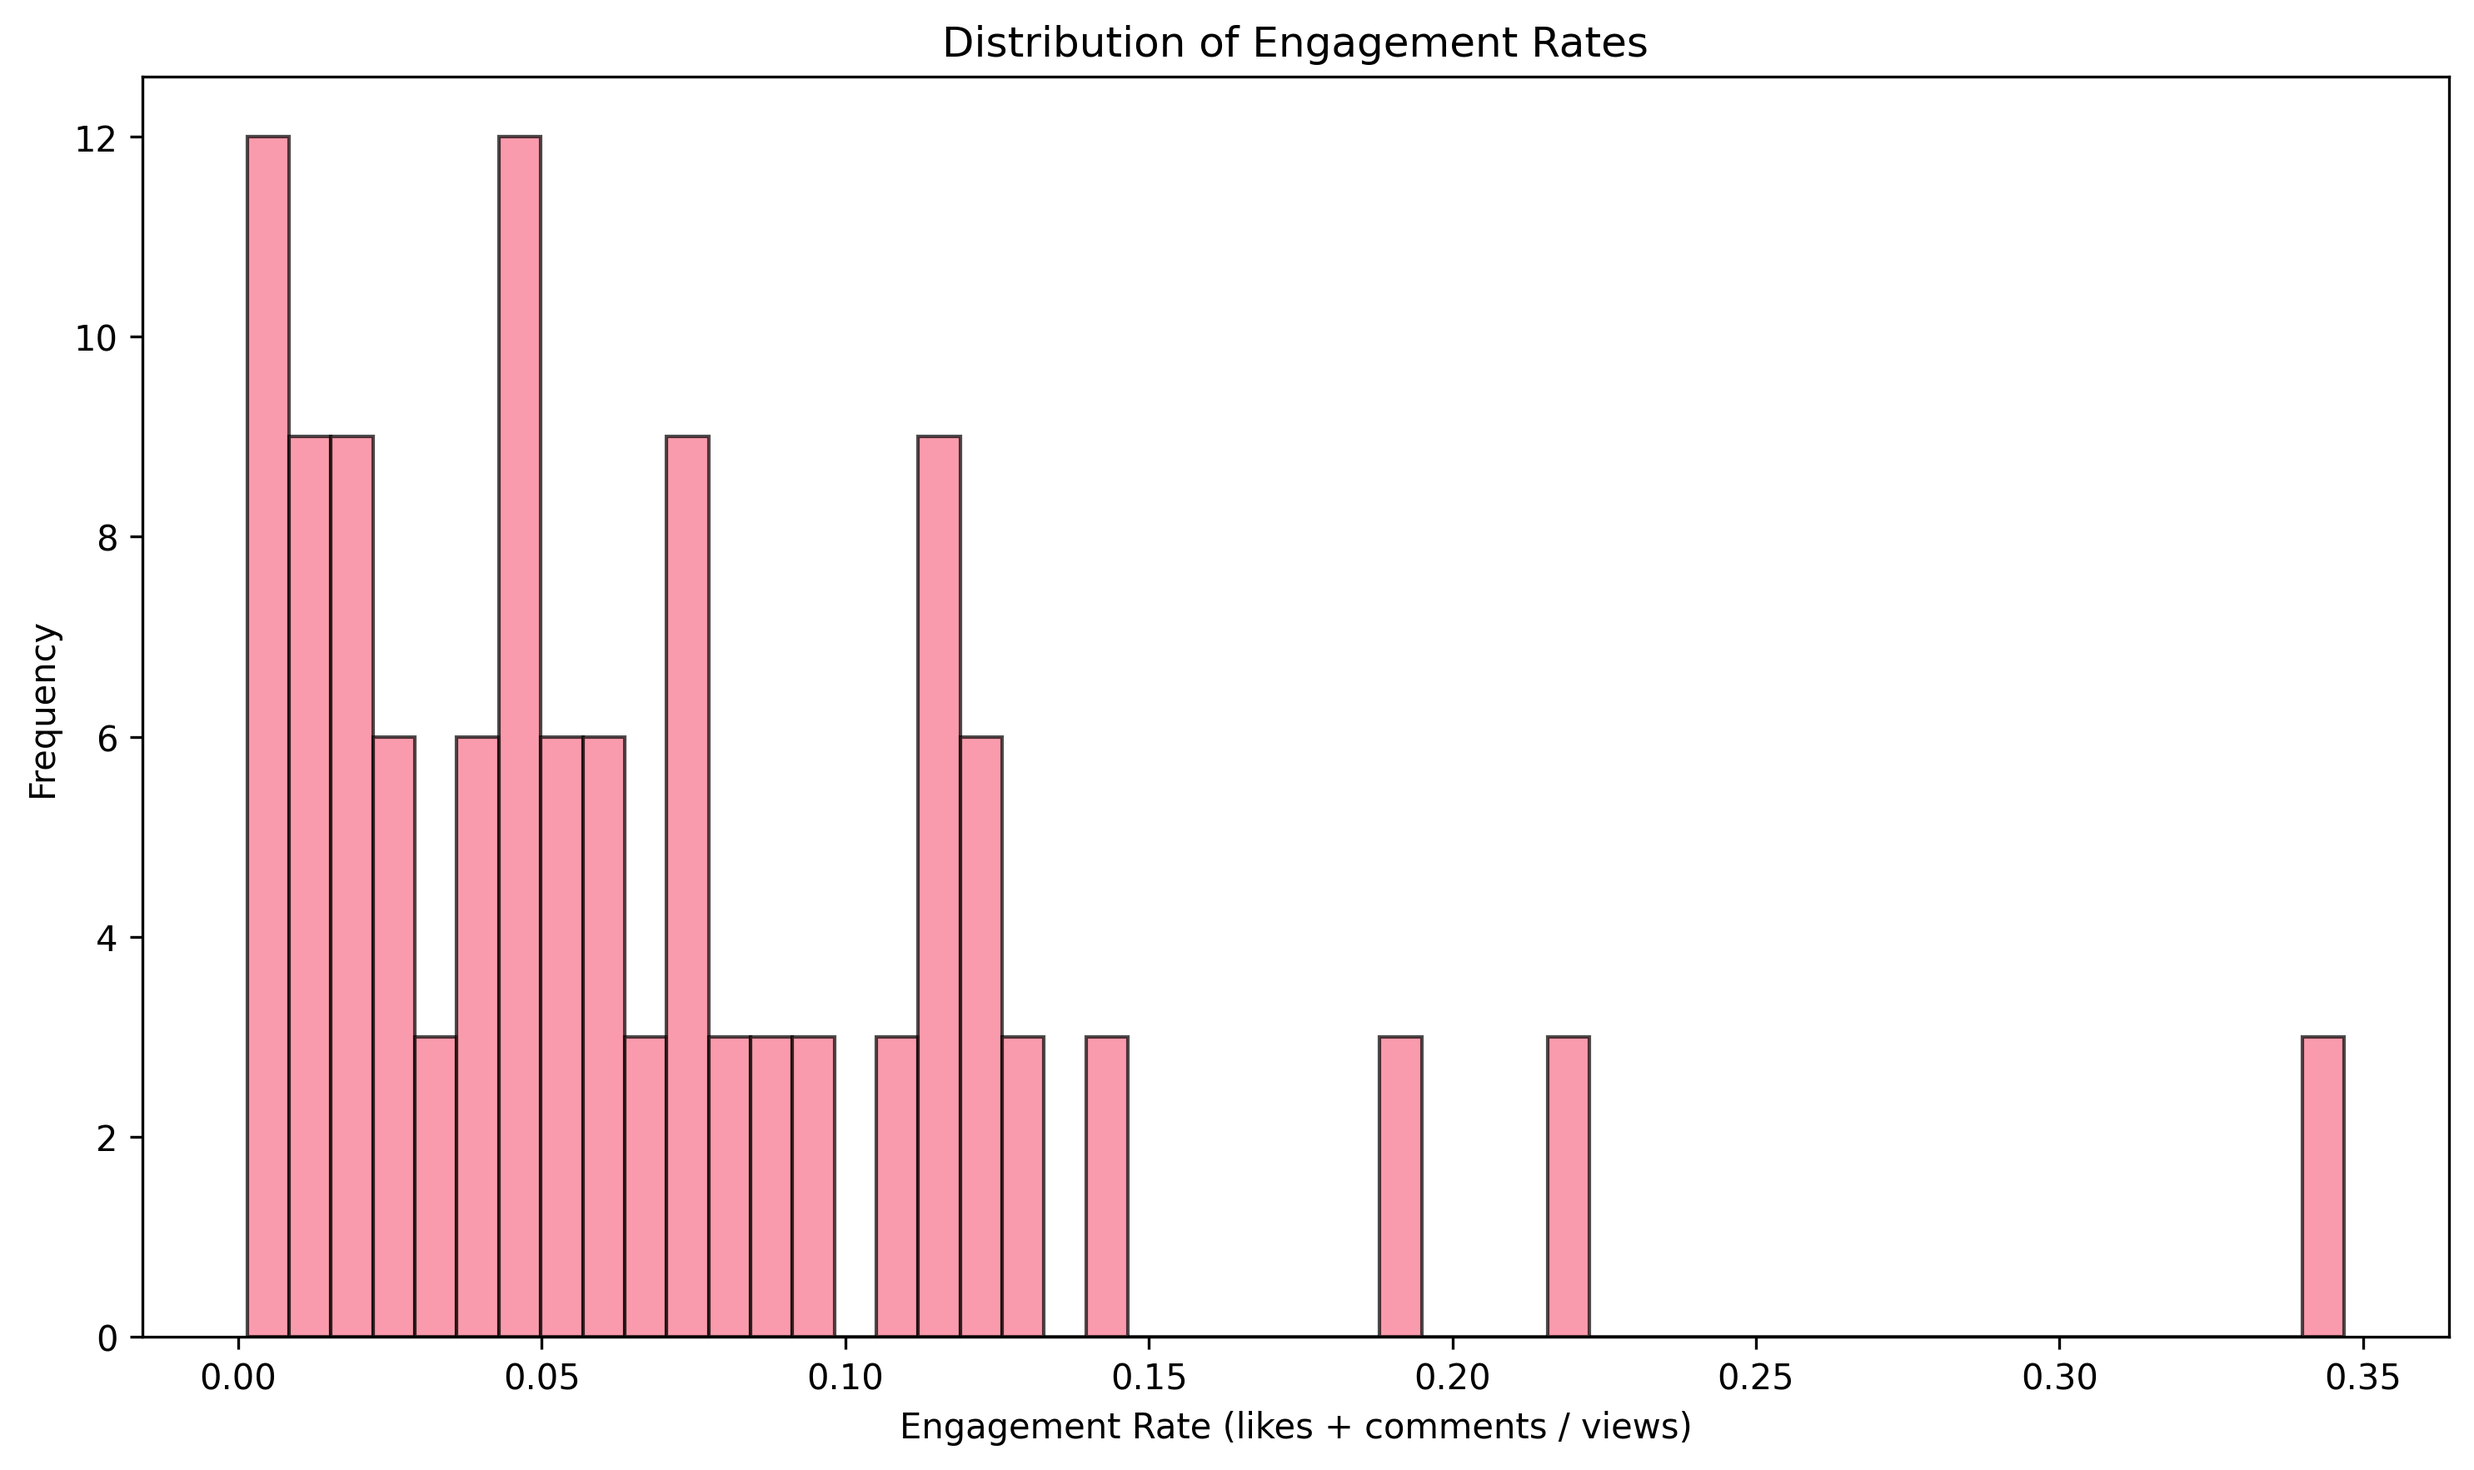
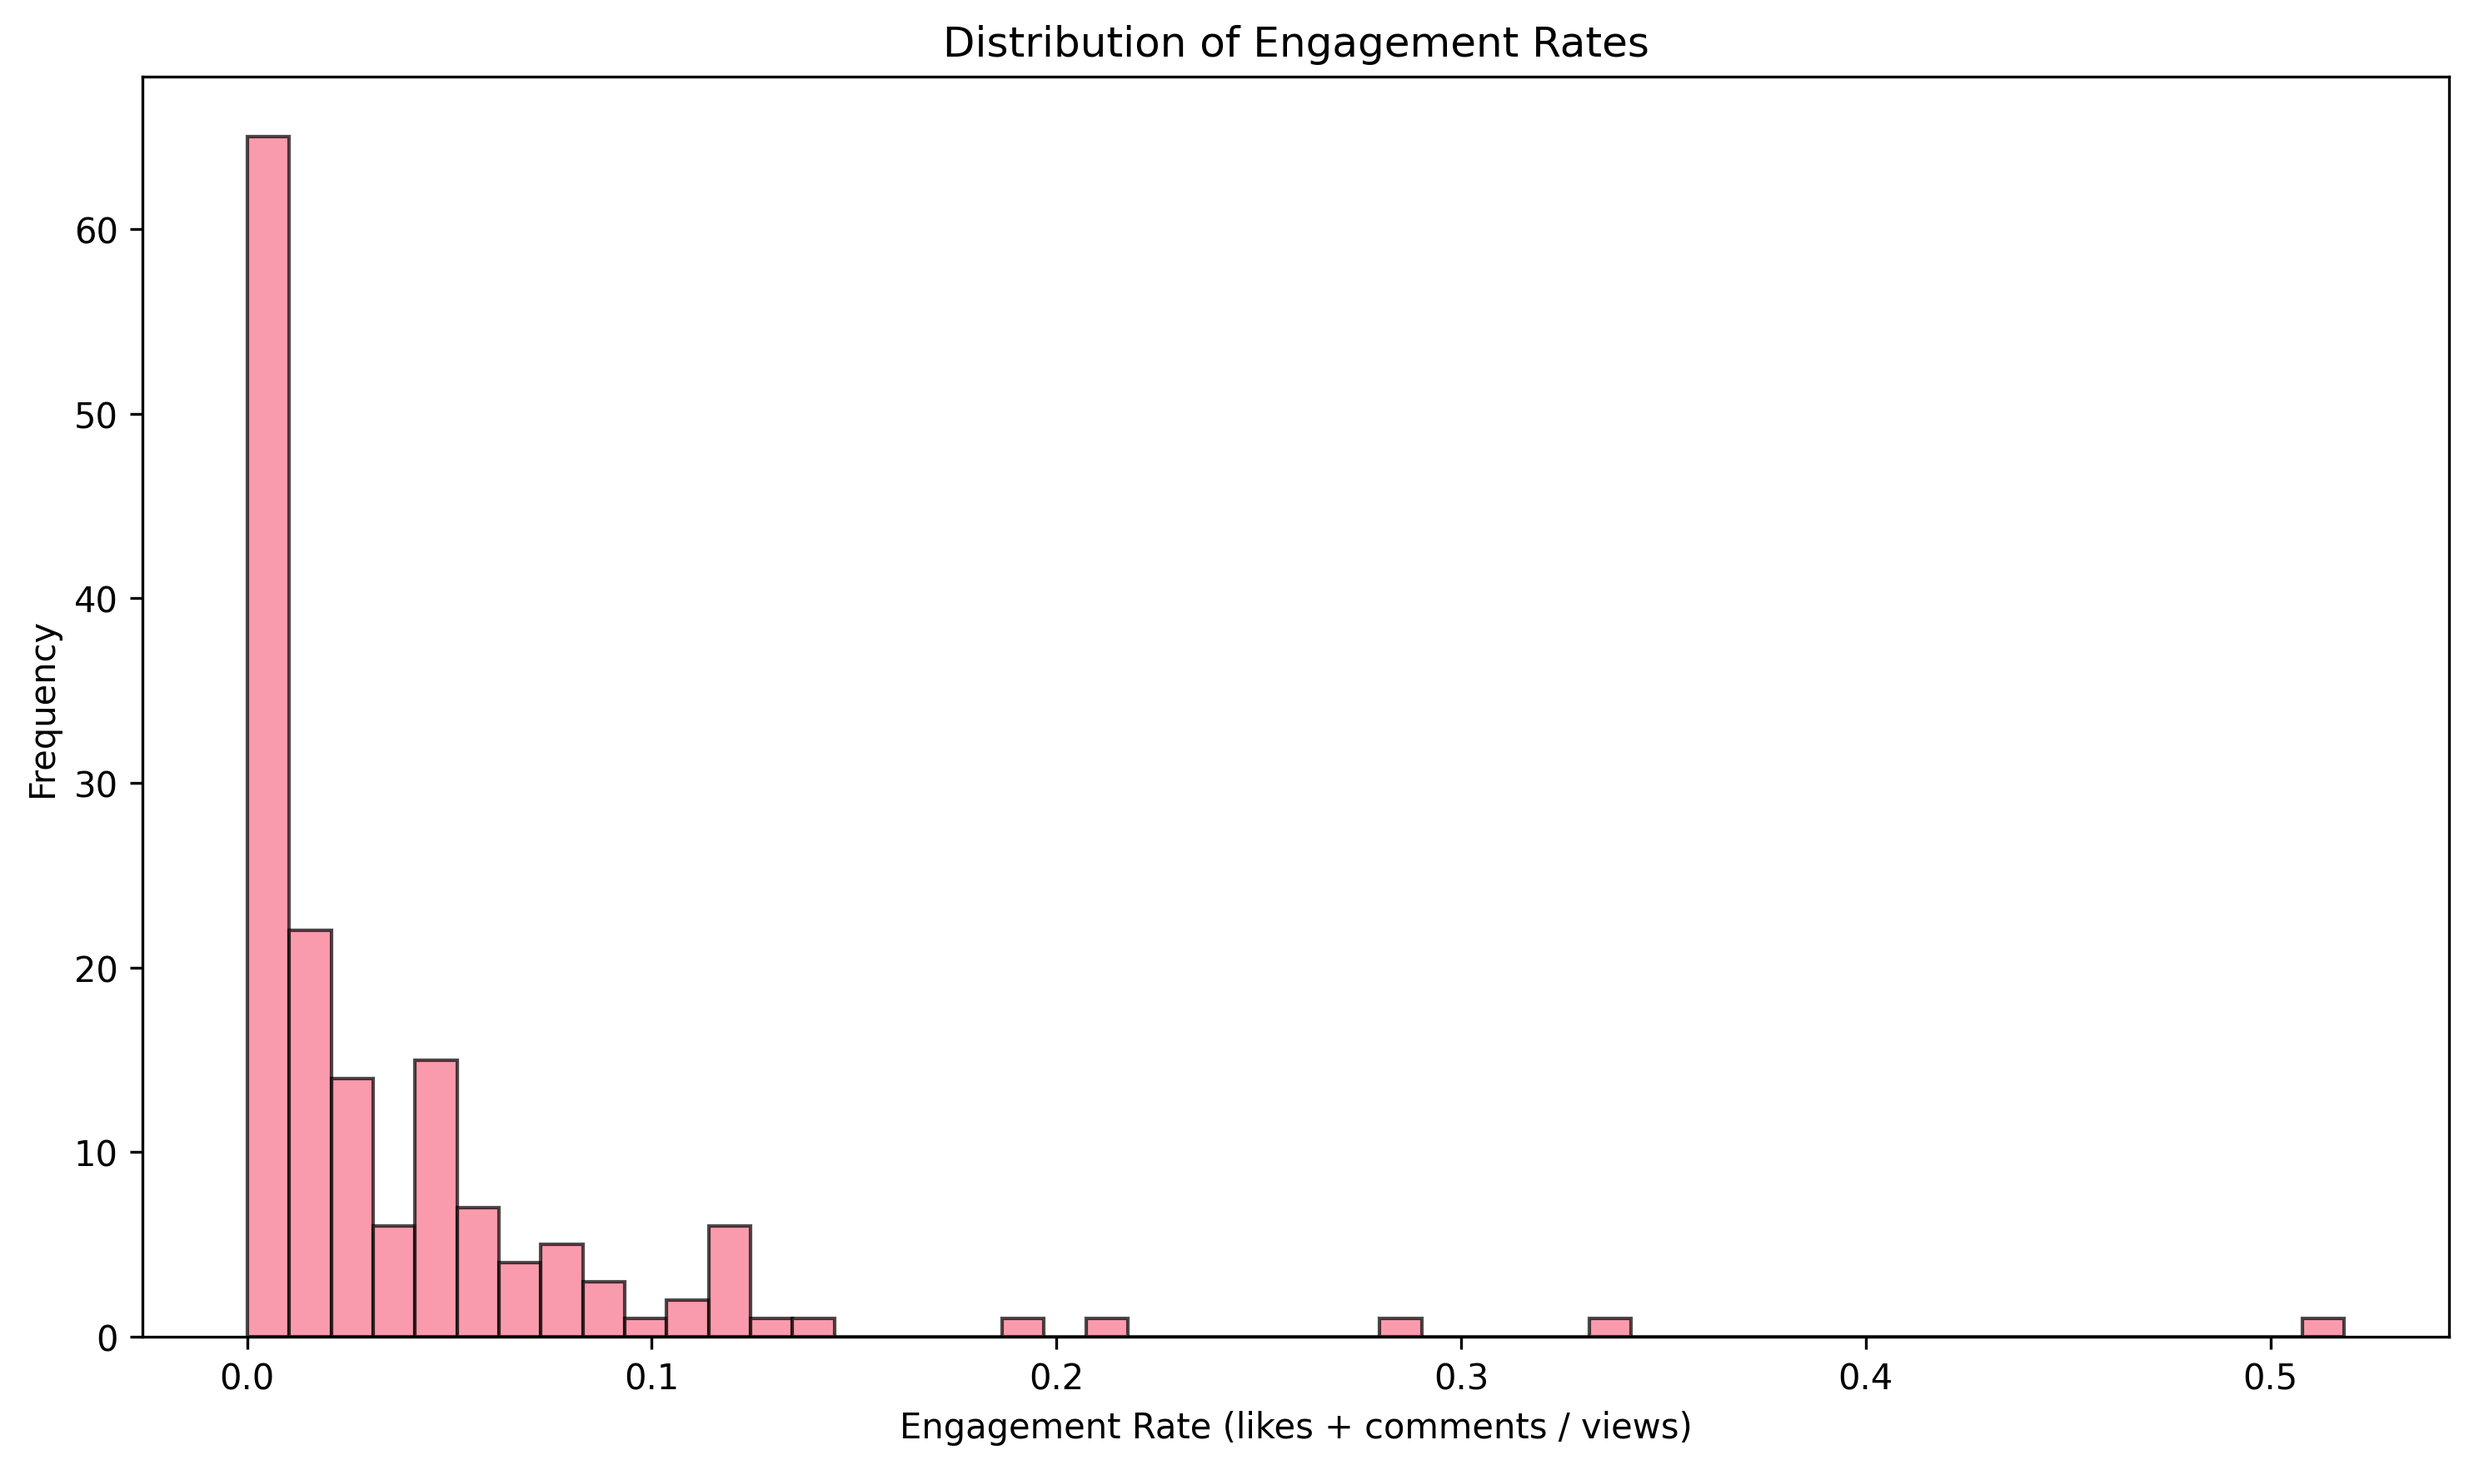
Expand dataset: Added 113 movie-related videos across 5 categories (trailers, reviews, cinema, Hollywood, scenes) - Total 168 videos with comprehensive categorization

diff --git a/scripts/extract_youtube_data.py b/scripts/extract_youtube_data.py
@@ -27,33 +27,80 @@ def extract_youtube_data():
         if not YOUTUBE_API_KEY or YOUTUBE_API_KEY == "YOUR_YOUTUBE_API_KEY_HERE":
             raise ValueError("YouTube API key not configured. Please update config.py")
 
-        url = f"https://www.googleapis.com/youtube/v3/videos?part=snippet,statistics&chart={CHART_TYPE}&regionCode={REGION_CODE}&maxResults={MAX_RESULTS}&key={YOUTUBE_API_KEY}"
-
-        logging.info(f"Making API request to: {url}")
-        response = requests.get(url)
-
-        if response.status_code != 200:
-            raise Exception(f"API request failed with status code {response.status_code}: {response.text}")
-
-        data = response.json()
-
-        if "error" in data:
-            raise Exception(f"YouTube API error: {data['error']['message']}")
-
         videos = []
 
-        for item in data.get("items", []):
-            video_data = {
-                "video_id": item["id"],
-                "title": item["snippet"]["title"],
-                "channel": item["snippet"]["channelTitle"],
-                "published_at": item["snippet"]["publishedAt"],
-                "views": int(item["statistics"].get("viewCount", 0)),
-                "likes": int(item["statistics"].get("likeCount", 0)),
-                "comments": int(item["statistics"].get("commentCount", 0)),
-                "extracted_at": datetime.now().isoformat()
-            }
-            videos.append(video_data)
+        # Strategy 1: Get trending videos (up to 50)
+        logging.info("Fetching trending videos...")
+        trending_url = f"https://www.googleapis.com/youtube/v3/videos?part=snippet,statistics&chart={CHART_TYPE}&regionCode={REGION_CODE}&maxResults=50&key={YOUTUBE_API_KEY}"
+
+        response = requests.get(trending_url)
+        if response.status_code == 200:
+            data = response.json()
+            if "items" in data:
+                for item in data["items"]:
+                    video_data = {
+                        "video_id": item["id"],
+                        "title": item["snippet"]["title"],
+                        "channel": item["snippet"]["channelTitle"],
+                        "published_at": item["snippet"]["publishedAt"],
+                        "views": int(item["statistics"].get("viewCount", 0)),
+                        "likes": int(item["statistics"].get("likeCount", 0)),
+                        "comments": int(item["statistics"].get("commentCount", 0)),
+                        "category": "trending",
+                        "extracted_at": datetime.now().isoformat()
+                    }
+                    videos.append(video_data)
+                logging.info(f"Fetched {len(data['items'])} trending videos")
+
+        # Strategy 2: Search for movie-related content
+        movie_queries = ["movie trailer", "film review", "cinema", "hollywood", "movie scene"]
+        videos_per_query = 20
+
+        for query in movie_queries:
+            logging.info(f"Searching for: {query}")
+            search_url = f"https://www.googleapis.com/youtube/v3/search?part=snippet&q={query}&type=video&order=relevance&maxResults={videos_per_query}&key={YOUTUBE_API_KEY}"
+
+            response = requests.get(search_url)
+            if response.status_code == 200:
+                search_data = response.json()
+                if "items" in search_data:
+                    video_ids = [item["id"]["videoId"] for item in search_data["items"] if "videoId" in item["id"]]
+
+                    # Get detailed stats for these videos
+                    if video_ids:
+                        stats_url = f"https://www.googleapis.com/youtube/v3/videos?part=statistics&id={','.join(video_ids[:50])}&key={YOUTUBE_API_KEY}"
+                        stats_response = requests.get(stats_url)
+
+                        if stats_response.status_code == 200:
+                            stats_data = stats_response.json()
+                            stats_dict = {item["id"]: item.get("statistics", {}) for item in stats_data.get("items", [])}
+
+                            for item in search_data["items"]:
+                                if "videoId" in item["id"]:
+                                    video_id = item["id"]["videoId"]
+                                    stats = stats_dict.get(video_id, {})
+
+                                    video_data = {
+                                        "video_id": video_id,
+                                        "title": item["snippet"]["title"],
+                                        "channel": item["snippet"]["channelTitle"],
+                                        "published_at": item["snippet"]["publishedAt"],
+                                        "views": int(stats.get("viewCount", 0)),
+                                        "likes": int(stats.get("likeCount", 0)),
+                                        "comments": int(stats.get("commentCount", 0)),
+                                        "category": f"movie_{query.replace(' ', '_')}",
+                                        "extracted_at": datetime.now().isoformat()
+                                    }
+                                    videos.append(video_data)
+
+            # Add small delay to avoid API rate limits
+            import time
+            time.sleep(1)
+
+        logging.info(f"Total videos collected: {len(videos)}")
+
+        if not videos:
+            raise Exception("No videos were fetched from YouTube API")
 
         df = pd.DataFrame(videos)
 
@@ -62,7 +109,35 @@ def extract_youtube_data():
         os.makedirs(raw_dir, exist_ok=True)
 
         output_path = os.path.join(raw_dir, "youtube_raw.csv")
-        df.to_csv(output_path, index=False)
+
+        # Check if file exists and append or create new
+        if os.path.exists(output_path):
+            # Read existing data to avoid duplicates
+            try:
+                existing_df = pd.read_csv(output_path)
+                existing_video_ids = set(existing_df['video_id'].tolist()) if 'video_id' in existing_df.columns else set()
+
+                # Filter out videos that already exist
+                new_videos = [v for v in videos if v['video_id'] not in existing_video_ids]
+
+                if new_videos:
+                    new_df = pd.DataFrame(new_videos)
+                    combined_df = pd.concat([existing_df, new_df], ignore_index=True)
+                    combined_df.to_csv(output_path, index=False)
+                    logging.info(f"Appended {len(new_videos)} new videos to existing CSV. Total: {len(combined_df)} videos")
+                else:
+                    logging.info("No new videos to add - all fetched videos already exist in CSV")
+                    return True
+            except Exception as e:
+                logging.warning(f"Error reading existing CSV: {e}. Creating new file.")
+                df = pd.DataFrame(videos)
+                df.to_csv(output_path, index=False)
+                logging.info(f"Created new CSV with {len(videos)} videos")
+        else:
+            # Create new file
+            df = pd.DataFrame(videos)
+            df.to_csv(output_path, index=False)
+            logging.info(f"Created new CSV with {len(videos)} videos")
 
         logging.info(f"Successfully extracted {len(videos)} videos to {output_path}")
         return True

diff --git a/scripts/load_to_mysql.py b/scripts/load_to_mysql.py
@@ -49,7 +49,10 @@ def load_data_to_mysql():
         if not cursor.fetchone():
             raise Exception("youtube_videos table does not exist. Please run the database schema first.")
 
-        input_path = "../data/processed/youtube_clean.csv"
+        # Ensure directories exist
+        processed_dir = os.path.join(os.path.dirname(os.path.dirname(__file__)), "data", "processed")
+
+        input_path = os.path.join(processed_dir, "youtube_clean.csv")
         if not os.path.exists(input_path):
             raise FileNotFoundError(f"Input file not found: {input_path}")
 
@@ -62,15 +65,26 @@ def load_data_to_mysql():
 
         for index, row in df.iterrows():
             try:
+                # Convert datetime format for MySQL
+                published_at = str(row["published_at"]).replace('Z', '').replace('T', ' ')
+
                 cursor.execute(
                     """INSERT INTO youtube_videos
-                       (title, channel, views, likes, engagement_rate)
-                       VALUES (%s, %s, %s, %s, %s)""",
+                       (video_id, title, channel, published_at, views, likes, comments, category, engagement_rate)
+                       VALUES (%s, %s, %s, %s, %s, %s, %s, %s, %s)
+                       ON DUPLICATE KEY UPDATE
+                       title=VALUES(title), channel=VALUES(channel), published_at=VALUES(published_at),
+                       views=VALUES(views), likes=VALUES(likes), comments=VALUES(comments),
+                       category=VALUES(category), engagement_rate=VALUES(engagement_rate)""",
                     (
+                        str(row["video_id"]),
                         str(row["title"])[:255],  # Truncate title if too long
                         str(row["channel"])[:255],  # Truncate channel if too long
+                        published_at,
                         int(row["views"]),
                         int(row["likes"]),
+                        int(row["comments"]),
+                        str(row.get("category", "trending")),
                         float(row["engagement_rate"])
                     )
                 )

diff --git a/scripts/transform_data.py b/scripts/transform_data.py
@@ -23,8 +23,13 @@ def transform_data():
     try:
         logging.info("Starting data transformation")
 
-        input_path = "../data/raw/youtube_raw.csv"
-        output_path = "../data/processed/youtube_clean.csv"
+        # Ensure directories exist
+        raw_dir = os.path.join(os.path.dirname(os.path.dirname(__file__)), "data", "raw")
+        processed_dir = os.path.join(os.path.dirname(os.path.dirname(__file__)), "data", "processed")
+        os.makedirs(processed_dir, exist_ok=True)
+
+        input_path = os.path.join(raw_dir, "youtube_raw.csv")
+        output_path = os.path.join(processed_dir, "youtube_clean.csv")
 
         if not os.path.exists(input_path):
             raise FileNotFoundError(f"Input file not found: {input_path}")
